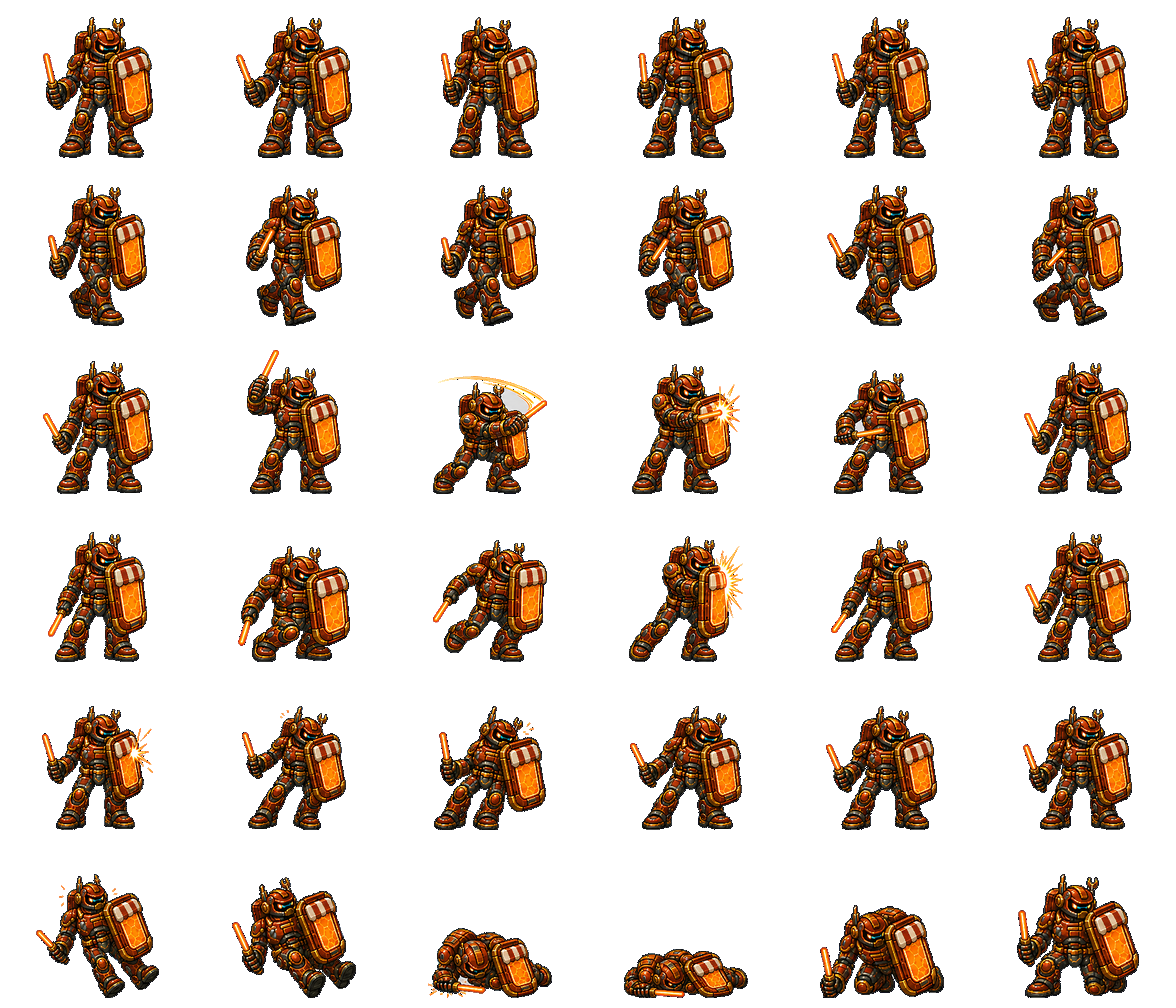
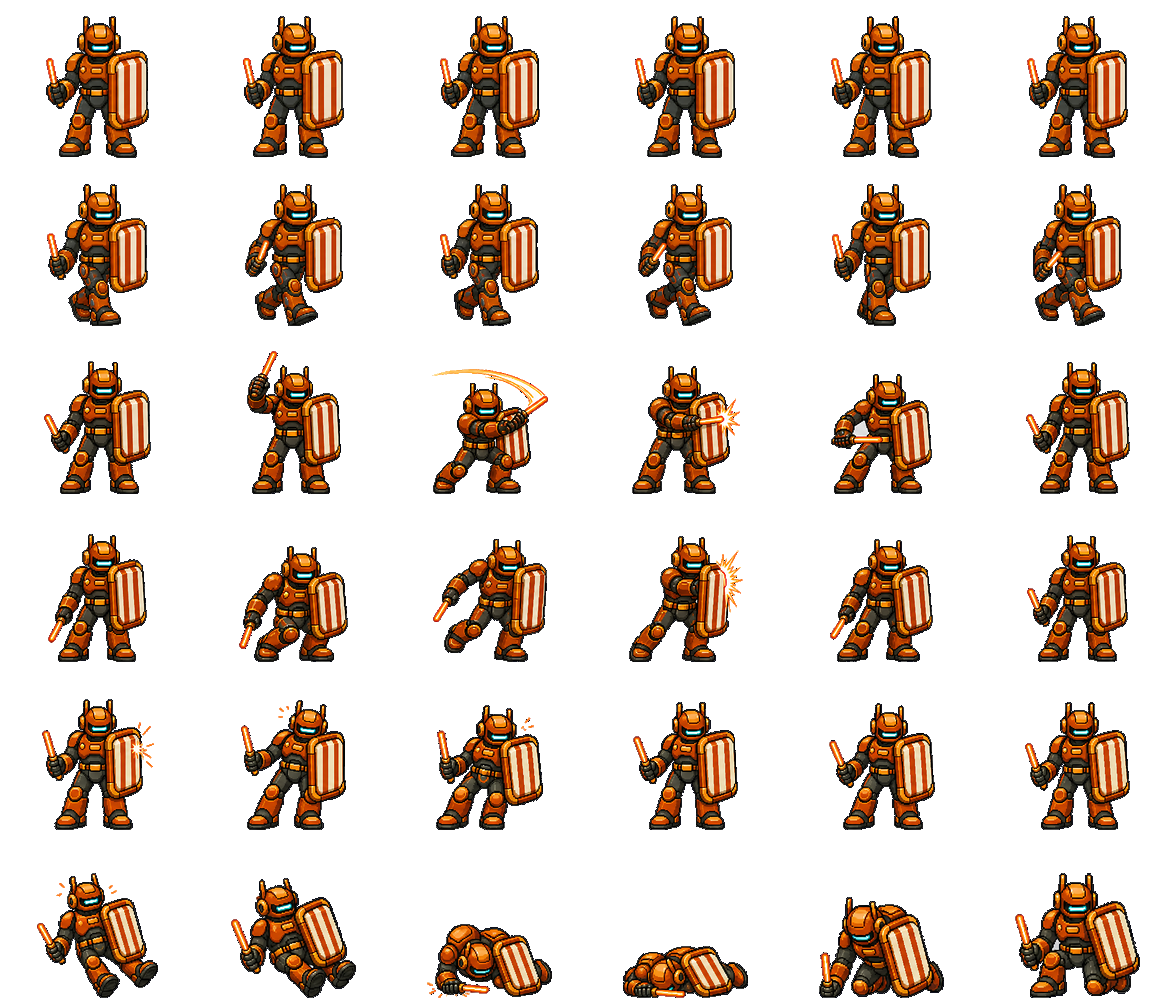
fix: restore hero clarity and redraw market enforcer

diff --git a/android/app/src/main/java/com/familyforce/neonstreets/GameView.java b/android/app/src/main/java/com/familyforce/neonstreets/GameView.java
@@ -116,6 +116,17 @@ public final class GameView extends SurfaceView implements SurfaceHolder.Callbac
     private static final int HERO_ANIM_ROWS = 11;
     private static final int HERO_ANIM_CELL_WIDTH = 192;
     private static final int HERO_ANIM_CELL_HEIGHT = 192;
+    private static final int HERO_TIER_TV = 0;
+    private static final int HERO_TIER_BASE = 1;
+    private static final int HERO_TIER_RUNTIME = 2;
+    private static final int HERO_TIER_UHD = 3;
+    private static final String[] HERO_ATLAS_TIER_DIRS = {
+            "tv/heroes/", "heroes/", "runtime/heroes/", "uhd/heroes/"
+    };
+    private static final String[] HERO_CLIP_TIER_DIRS = {
+            "tv/clips/heroes/", "clips/heroes/", "runtime/clips/heroes/",
+            "uhd/clips/heroes/"
+    };
     private static final int HERO_ANIM_ATLAS_WIDTH = HERO_ANIM_COLUMNS * HERO_ANIM_CELL_WIDTH;
     private static final int HERO_ANIM_ATLAS_HEIGHT = HERO_ANIM_ROWS * HERO_ANIM_CELL_HEIGHT;
     private static final String[] HERO_ANIM_CLIP_NAMES = {
@@ -293,6 +304,10 @@ public final class GameView extends SurfaceView implements SurfaceHolder.Callbac
     // of magnifying low-resolution pixels two or three times on a TV.
     private final Paint crispCharacterPaint = new Paint(Paint.ANTI_ALIAS_FLAG
             | Paint.DITHER_FLAG | Paint.FILTER_BITMAP_FLAG);
+    // Dense hero tiers are authored on a true 1px grid. Bilinear filtering
+    // blurred eyes and armor edges after the logical 640x360 canvas was scaled
+    // to 1080p. Heroes use nearest sampling; enemies keep their existing paint.
+    private final Paint sharpHeroCharacterPaint = new Paint(Paint.DITHER_FLAG);
     private final Paint portraitPaint = new Paint(Paint.FILTER_BITMAP_FLAG | Paint.DITHER_FLAG);
     private final Rect source = new Rect();
     private final RectF dest = new RectF();
@@ -1593,14 +1608,21 @@ public final class GameView extends SurfaceView implements SurfaceHolder.Callbac
                 || !hasLargeBitmapBudget();
     }
 
-    private boolean useUhdCharacterAssets() {
+    private int heroAnimationTier() {
         ActivityManager manager = (ActivityManager) getContext()
                 .getSystemService(Context.ACTIVITY_SERVICE);
-        // A decoded 4K-class hero atlas is roughly 50 MiB. Keep it away from
-        // TV sticks and OEMs with small heaps; Shield-class TVs and modern
-        // phones get the sharper source while all devices retain a safe path.
-        return manager != null && !manager.isLowRamDevice()
-                && manager.getMemoryClass() >= 384;
+        if (manager == null) return HERO_TIER_BASE;
+        int memoryMb = manager.getMemoryClass();
+        if (manager.isLowRamDevice() || memoryMb < 192) return HERO_TIER_TV;
+        // UI_MODE_TELEVISION alone does not mean weak hardware. Xiaomi-class
+        // devices receive the 192px Base art while Shield-class heaps receive
+        // Runtime. UHD remains phone/Fold-only because two decoded UHD heroes
+        // cost about 99 MiB before enemies and backgrounds.
+        if (isTelevisionDevice()) {
+            return memoryMb >= 384 ? HERO_TIER_RUNTIME : HERO_TIER_BASE;
+        }
+        if (memoryMb >= 512) return HERO_TIER_UHD;
+        return memoryMb >= 256 ? HERO_TIER_RUNTIME : HERO_TIER_BASE;
     }
 
     private boolean isValidHeroAtlas(Bitmap bitmap) {
@@ -1613,17 +1635,12 @@ public final class GameView extends SurfaceView implements SurfaceHolder.Callbac
 
     private Bitmap loadHeroAnimationAtlas(int hero) {
         String stem = customerProfile.heroAssetStems[safeHeroIndex(hero)] + "_anim.png";
-        boolean reduced = useReducedMemoryAssets();
-        // Android TV must not decode the 28–50 MiB Runtime/UHD atlas before
-        // trying its compact animated tier. An OOM here previously left the
-        // actor moving through the world with only its static fallback image.
-        Bitmap atlas = reduced ? loadBitmap("tv/heroes/" + stem) : null;
-        if (atlas == null && !reduced && useUhdCharacterAssets()) {
-            atlas = loadBitmap("uhd/heroes/" + stem);
+        int selectedTier = heroAnimationTier();
+        for (int tier = selectedTier; tier >= HERO_TIER_TV; tier--) {
+            Bitmap atlas = loadBitmap(HERO_ATLAS_TIER_DIRS[tier] + stem);
+            if (atlas != null) return atlas;
         }
-        if (atlas == null && !reduced) atlas = loadBitmap("runtime/heroes/" + stem);
-        if (atlas == null) atlas = loadBitmap("heroes/" + stem);
-        return atlas;
+        return selectedTier == HERO_TIER_TV ? loadBitmap("heroes/" + stem) : null;
     }
 
     private Bitmap[] loadClipSet(String directory, String[] names, int columns) {
@@ -1660,23 +1677,15 @@ public final class GameView extends SurfaceView implements SurfaceHolder.Callbac
 
     private Bitmap[] loadHeroAnimationClips(int hero) {
         String stem = customerProfile.heroAssetStems[safeHeroIndex(hero)];
-        boolean reduced = useReducedMemoryAssets();
-        Bitmap[] clips = reduced
-                ? loadClipSet("tv/clips/heroes/" + stem + "/",
-                HERO_ANIM_CLIP_NAMES, HERO_ANIM_COLUMNS) : null;
-        if (clips == null && !reduced && useUhdCharacterAssets()) {
-            clips = loadClipSet("uhd/clips/heroes/" + stem + "/", HERO_ANIM_CLIP_NAMES,
-                    HERO_ANIM_COLUMNS);
-        }
-        if (clips == null && !reduced) {
-            clips = loadClipSet("runtime/clips/heroes/" + stem + "/",
+        int selectedTier = heroAnimationTier();
+        for (int tier = selectedTier; tier >= HERO_TIER_TV; tier--) {
+            Bitmap[] clips = loadClipSet(HERO_CLIP_TIER_DIRS[tier] + stem + "/",
                     HERO_ANIM_CLIP_NAMES, HERO_ANIM_COLUMNS);
+            if (clips != null) return clips;
         }
-        if (clips == null) {
-            clips = loadClipSet("clips/heroes/" + stem + "/",
-                    HERO_ANIM_CLIP_NAMES, HERO_ANIM_COLUMNS);
-        }
-        return clips;
+        return selectedTier == HERO_TIER_TV
+                ? loadClipSet("clips/heroes/" + stem + "/", HERO_ANIM_CLIP_NAMES,
+                HERO_ANIM_COLUMNS) : null;
     }
 
     private Bitmap[] decodeEnemyAnimationClips(int type, String tier) {
@@ -5398,9 +5407,9 @@ public final class GameView extends SurfaceView implements SurfaceHolder.Callbac
         canvas.translate(x, baseY);
         if (flip) canvas.scale(-1f, 1f);
         dest.set(-height * 0.5f, -height, height * 0.5f, 0f);
-        crispCharacterPaint.setAlpha(alpha);
-        animator.draw(canvas, crispCharacterPaint, source, dest);
-        crispCharacterPaint.setAlpha(255);
+        sharpHeroCharacterPaint.setAlpha(alpha);
+        animator.draw(canvas, sharpHeroCharacterPaint, source, dest);
+        sharpHeroCharacterPaint.setAlpha(255);
         canvas.restore();
     }
 

diff --git a/android/tools/test_tv_hero_animation_loading.py b/android/tools/test_tv_hero_animation_loading.py
@@ -26,9 +26,18 @@ def method(name: str) -> str:
 
 atlas_loader = method("loadHeroAnimationAtlas")
 clip_loader = method("loadHeroAnimationClips")
-assert atlas_loader.index('loadBitmap("tv/heroes/"') < atlas_loader.index('loadBitmap("runtime/heroes/"')
-assert clip_loader.index('loadClipSet("tv/clips/heroes/"') < clip_loader.index('loadClipSet("runtime/clips/heroes/"')
-assert "if (atlas == null) atlas = loadBitmap(\"heroes/\" + stem);" in atlas_loader
+tier_selector = method("heroAnimationTier")
+
+# TV is not synonymous with weak hardware. Low-memory sticks retain the compact
+# tier, ordinary TVs receive Base, and Shield-class devices can use Runtime.
+assert "manager.isLowRamDevice() || memoryMb < 192" in tier_selector
+assert "memoryMb >= 384 ? HERO_TIER_RUNTIME : HERO_TIER_BASE" in tier_selector
+assert "memoryMb >= 512" in tier_selector and "HERO_TIER_UHD" in tier_selector
+assert "HERO_ATLAS_TIER_DIRS[tier]" in atlas_loader
+assert "HERO_CLIP_TIER_DIRS[tier]" in clip_loader
+assert "tier >= HERO_TIER_TV" in atlas_loader
+assert "tier >= HERO_TIER_TV" in clip_loader
+assert 'loadBitmap("heroes/" + stem)' in atlas_loader
 assert 'loadClipSet("clips/heroes/"' in clip_loader
 
 for actor in ("parent", "adam", "shaikha", "sulaiman"):
@@ -43,4 +52,4 @@ for actor in ("parent", "adam", "shaikha", "sulaiman"):
             digests = {hashlib.sha256(frame.tobytes()).digest() for frame in frames}
             assert len(digests) >= 3, (actor, row, "static animation row")
 
-print("TV hero animation loading: PASS (TV-first + 4 heroes × 11 moving rows)")
+print("TV hero animation loading: PASS (adaptive tiers + 4 heroes × 11 moving rows)")

diff --git a/android/tools/test_symbol_neutral_contract.py b/android/tools/test_symbol_neutral_contract.py
@@ -1,0 +1,36 @@
+#!/usr/bin/env python3
+"""Require a complete human symbol audit and approvals for new art sources."""
+
+import json
+from pathlib import Path
+
+
+ROOT = Path(__file__).resolve().parents[1]
+ASSETS = ROOT / "app/src/main/assets"
+AUDIT = json.loads((ASSETS / "asset_symbol_audit.json").read_text())
+
+assert AUDIT["schema"] == 1
+assert AUDIT["review_scope"] == "all 36 base-atlas frames per enemy"
+approved = set(AUDIT["approved"])
+rejected = set(AUDIT["rejected"])
+enemies = {
+    path.stem.removesuffix("_anim")
+    for path in (ASSETS / "enemies").glob("*_anim.png")
+}
+assert approved.isdisjoint(rejected), approved & rejected
+assert approved | rejected == enemies, sorted(enemies - approved - rejected)
+
+source_root = ROOT.parent / "assets/imagegen/android/enemies"
+new_sources = {
+    f"quality-v4/{path.parent.name}"
+    for path in (source_root / "quality-v4").glob("*/model_sheet.png")
+}
+source_approvals = set(AUDIT["new_source_approvals"])
+assert new_sources <= source_approvals, sorted(new_sources - source_approvals)
+assert not (rejected & {item.split("/", 1)[1] for item in source_approvals})
+
+print(
+    "Symbol-neutral contract: PASS "
+    f"({len(approved)} approved, {len(rejected)} quarantined, "
+    f"{len(source_approvals)} new source approval)"
+)

diff --git a/android/tools/test_tv_encounter_memory_contract.py b/android/tools/test_tv_encounter_memory_contract.py
@@ -16,7 +16,8 @@ def main() -> None:
     assert 'enemyAtlasAssetExists("runtime/enemies/", type)' in text
     assert "private boolean useReducedMemoryAssets()" in text
     assert "smallestScreenWidthDp >= 720" in text
-    assert 'loadBitmap("runtime/heroes/" + stem)' in text
+    assert "HERO_ATLAS_TIER_DIRS[tier]" in text
+    assert "memoryMb >= 384 ? HERO_TIER_RUNTIME : HERO_TIER_BASE" in text
     assert "preloadEnemyAnimationsForZoneAsync" in text
     assert '"FamilyForceAssetWarmup"' in text
     assert "loader.setPriority(Thread.MIN_PRIORITY)" in text

diff --git a/android/docs/SYMBOL_NEUTRAL_ART_STANDARD_AR.md b/android/docs/SYMBOL_NEUTRAL_ART_STANDARD_AR.md
@@ -1,0 +1,47 @@
+# معيار الرسومات المحايدة للرموز
+
+## الهدف
+
+كل شخصية أو سلاح أو خلفية جديدة يجب أن تكون خيالية ومحايدة، ولا تستخدم رمزًا
+يمكن قراءته بوصفه دينيًا أو مذهبيًا أو حضاريًا أو قوميًّا أو سياسيًا. لا يكفي أن
+تكون الصورة جميلة أو عالية الدقة؛ فمراجعة الرموز بوابة مستقلة تسبق إدخال الأصل
+إلى اللعبة.
+
+## الممنوع
+
+- الصليب أو علامة `+` أو حرف `X` عندما يستخدم كشعار أو زخرفة.
+- الهلال والنجمة الدينية أو القومية، الرموز المقدسة، الرونية، الأعلام، التيجان
+  والشعارات النبالية، شعارات الدول والحركات، وأي كتابة دينية أو أيديولوجية.
+- نسخ زخارف مرتبطة بحضارة أو معبد أو شعار تاريخي معروف.
+- توليد تفاصيل عشوائية صغيرة قد تتحول بعد التصغير إلى أحد الرموز السابقة.
+
+## المسموح
+
+- دوائر وسداسيات ونقاط وخطوط متوازية وشرائط لونية مستقيمة.
+- دوائر إلكترونية خيالية غير متناظرة لا تكوّن شعارًا.
+- أرقام وأسماء وظيفية يوافق عليها المشروع، بشرط ألا تحاكي شعارًا حقيقيًا.
+
+## بوابة القبول
+
+1. مراجعة `model_sheet` بالحجم الأصلي.
+2. بناء الأطلس ثم مراجعة **كل الإطارات الـ36**، لا إطار الوقوف فقط.
+3. مراجعة ثانية بالحجم الفعلي داخل اللعبة؛ لأن التصغير قد يصنع شكلًا لم يكن
+   واضحًا في المصدر.
+4. تسجيل النتيجة والسبب في `asset_symbol_audit.json`.
+5. أي نتيجة `rejected` تمنع اعتماد إعادة الرسم الجديدة، وتعود الشخصية نفسها
+   لإعادة الرسم. يمنع استبدالها بشخصية أخرى لإخفاء الفشل.
+
+الأداة `android/tools/test_symbol_neutral_contract.py` تتحقق من اكتمال سجل كل
+عدو ومن اعتماد أي حزمة `quality-v4` جديدة. أما اكتشاف الرمز بصريًا فلا يعتمد
+على خوارزمية وحدها؛ يجب الاحتفاظ بفحص بصري بشري لكل 36 إطارًا.
+
+## نتيجة فحص 2026-08-25
+
+- `Market Enforcer`: اجتاز النموذج والحركات الجديدة؛ استخدمت الدرع شرائط سوق
+  عمودية فقط وأزيلت الزخارف الدقيقة.
+- `Lantern Courier`: مرفوض؛ العينان على شكل `X` ونمط الصدر يحتاجان إعادة رسم.
+- `Palace Sentinel`: مرفوض؛ الزخارف والشعار الدرعي قريبة من زخارف حضارية/نبالية.
+- `Tidebreaker`: مرفوض؛ أعلى الرأس/الظهر يصنع هيئة شعار متقاطع.
+- بقية الأعداء: لا يظهر شعار صريح في تدقيق الأطالس الحالي، مع بقاء إعادة الفحص
+  إلزامية عند أي إعادة رسم.
+

diff --git a/android/docs/ENEMY_VISUAL_QUALITY_STANDARD_AR.md b/android/docs/ENEMY_VISUAL_QUALITY_STANDARD_AR.md
@@ -7,8 +7,9 @@
 والوضوح هو المستوى المعتمد داخل اللعبة لشخصيتي `Striker` و`Shield Guard`.
 لا تُعمّم إعادة الرسم على المراحل التالية قبل اعتماد المرحلة الأولى داخل اللعبة.
 
-اعتمدت حزمة `quality-v3` لشخصيتي `Market Enforcer` و`Keeper-7` بعد رفض
-المستخدم لجودتهما البصرية رغم نجاح الفحص الآلي. تبقى بقية شخصيات المرحلة الأولى
+اعتمدت حزمة `quality-v4` الجديدة لشخصية `Market Enforcer` بعد إعادة رسمها
+فعليًا بهوية السوق البرتقالية نفسها، ولم تُستبدل بـ`Shield Guard`. بقي
+`Keeper-7` مؤقتًا على `quality-v3` إلى أن ينجح Market داخل اللعبة. تبقى بقية شخصيات المرحلة الأولى
 على `quality-v2` حتى يعاد رسم كل شخصية منفردة وتنجح داخل اللعبة. يجب على اختبار
 الإصدار اختيار أحدث حزمة معتمدة لكل عدو، لا افتراض جيل مصدر واحد للجميع.
 
@@ -24,6 +25,13 @@
 - الجسم كامل داخل كل خلية مع مساحة آمنة للحركة؛ أي إطار يلامس حد الخلية يُرفض
   قبل بناء الأطلس، ويمنع قص الأطراف أو انتقال مؤثر من خلية مجاورة.
 - يمنع الـblur والـsoft alpha والبكسل العملاق والخلفيات أو النصوص داخل الخلايا.
+- الدقة العالية ليست إذنًا للتفاصيل المجهرية: لا يزيد المصدر عن 18–30 لونًا
+  وفق الشخصية، ولا يزيد كل سطح درع رئيسي عن ثلاث درجات، وتُرفض الخطوط التي
+  تختفي عند عرض الجسم بارتفاعه الفعلي داخل اللعبة.
+- وضوح الـPPI يقاس بالحجم النهائي لا بأبعاد PNG وحدها؛ مرجع المقارنة هو حجم
+  تجمعات البكسل ووضوح الوجه والأطراف في `Striker` و`Shield Guard` عند العرض.
+- يطبّق معيار الرموز المستقل في `SYMBOL_NEUTRAL_ART_STANDARD_AR.md` قبل اعتماد
+  أي مصدر جديد.
 
 ## الأطالس المعتمدة
 

diff --git a/PROJECT_HISTORY_AR.md b/PROJECT_HISTORY_AR.md
@@ -189,6 +189,25 @@
 
 ## سجل الطلبات والتعديلات المشترك
 
+### 2026-08-25-91 — تنفيذ استعادة الوضوح وسياسة الرموز وإعادة Market
+
+- المنفذ: Codex
+- طلب المستخدم: "نبدأ التنفيذ الآن" للخطة المعتمدة: وضوح Essa/Adam، إعادة
+  Market ثم Keeper، وإزالة/منع الرموز الدينية والحضارية.
+- الحالة: قيد التنفيذ.
+- نقطة البداية: `v0.50.2-alpha` / commit `b061f96`.
+- ما تم:
+  - بدء التنفيذ على مراحل مع عدم استخدام Higgsfield وعدم إنشاء فيديو.
+  - اعتماد أداة الصور المدمجة لإعادة Market وحده بعد إصلاح نظام الجودة والتدقيق.
+- الملفات المعدلة:
+  - `PROJECT_HISTORY_AR.md`
+- الاختبارات:
+  - قيد التنفيذ.
+- Release: لا يوجد بعد.
+- ملاحظات/مخاطر: Keeper لا يعاد بناؤه قبل نجاح Market بالحجم الفعلي داخل اللعبة.
+- التالي: تطبيق Hero Quality Tier حسب الذاكرة، إضافة Symbol-Neutral gate، ثم
+  إنشاء Market pixel-first واختباره على Android TV emulator.
+
 ### 2026-08-25-90 — عودة ضعف الوضوح ومنع الرموز الدينية والحضارية
 
 - المنفذ: Codex
